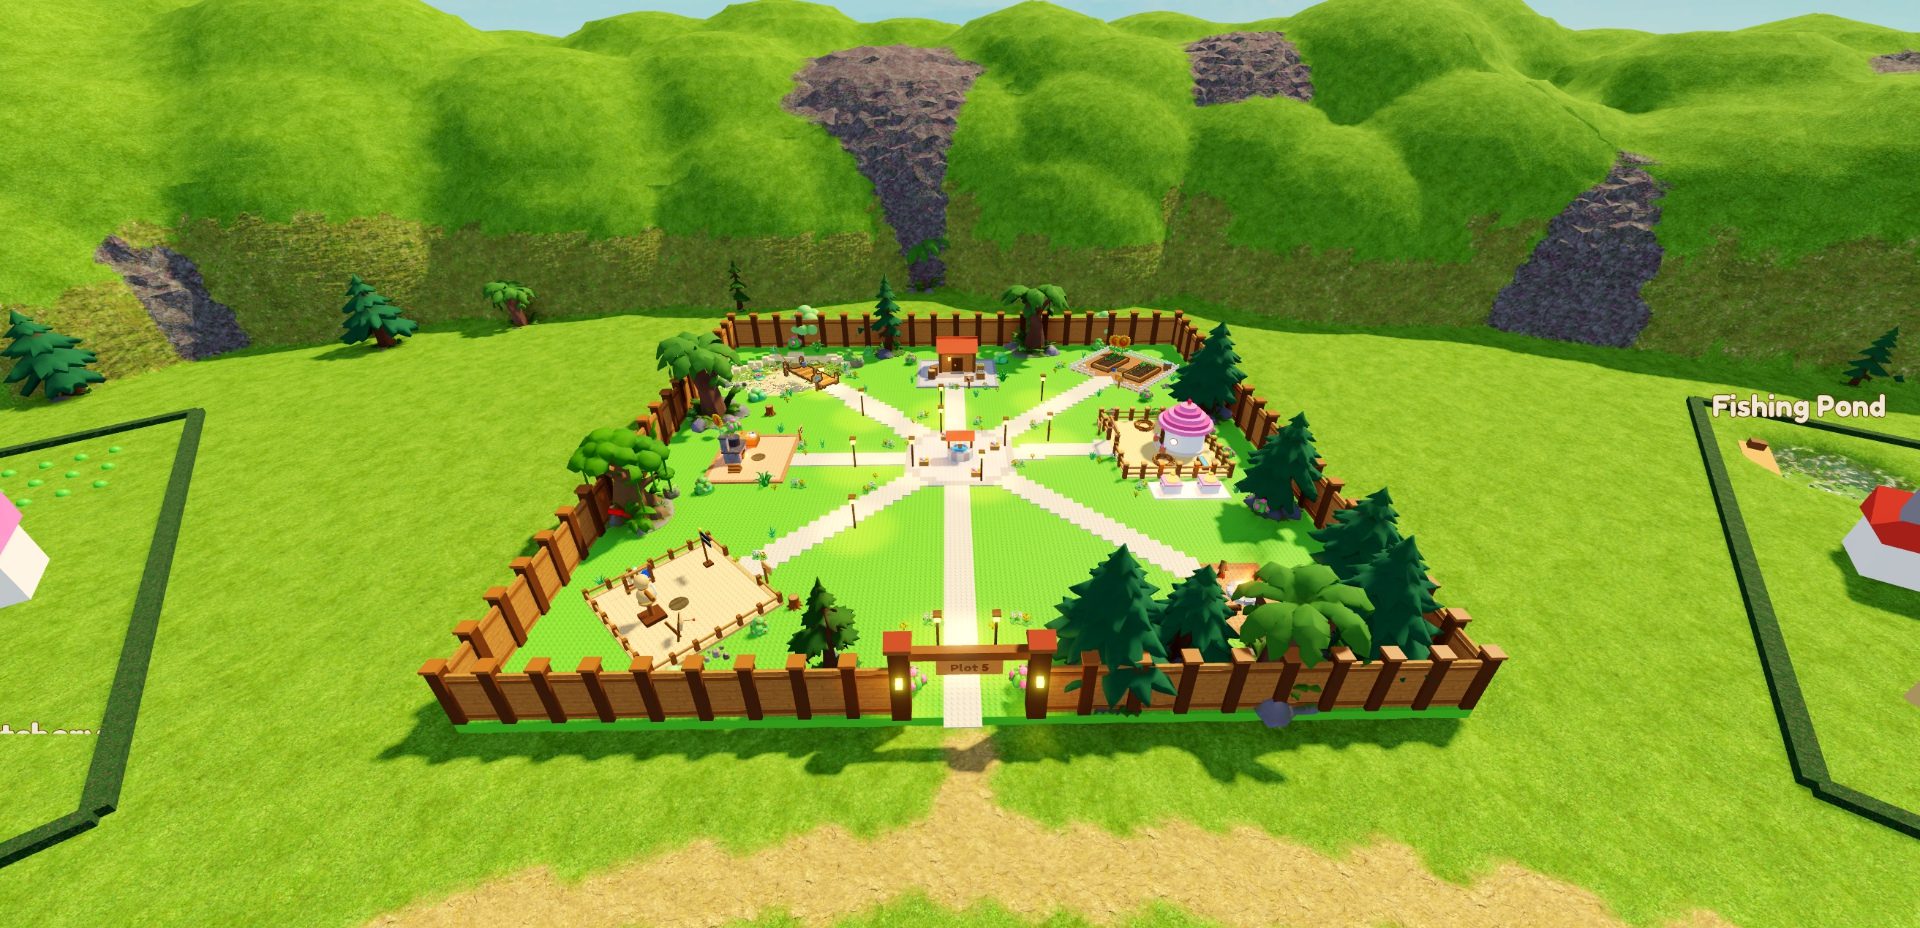
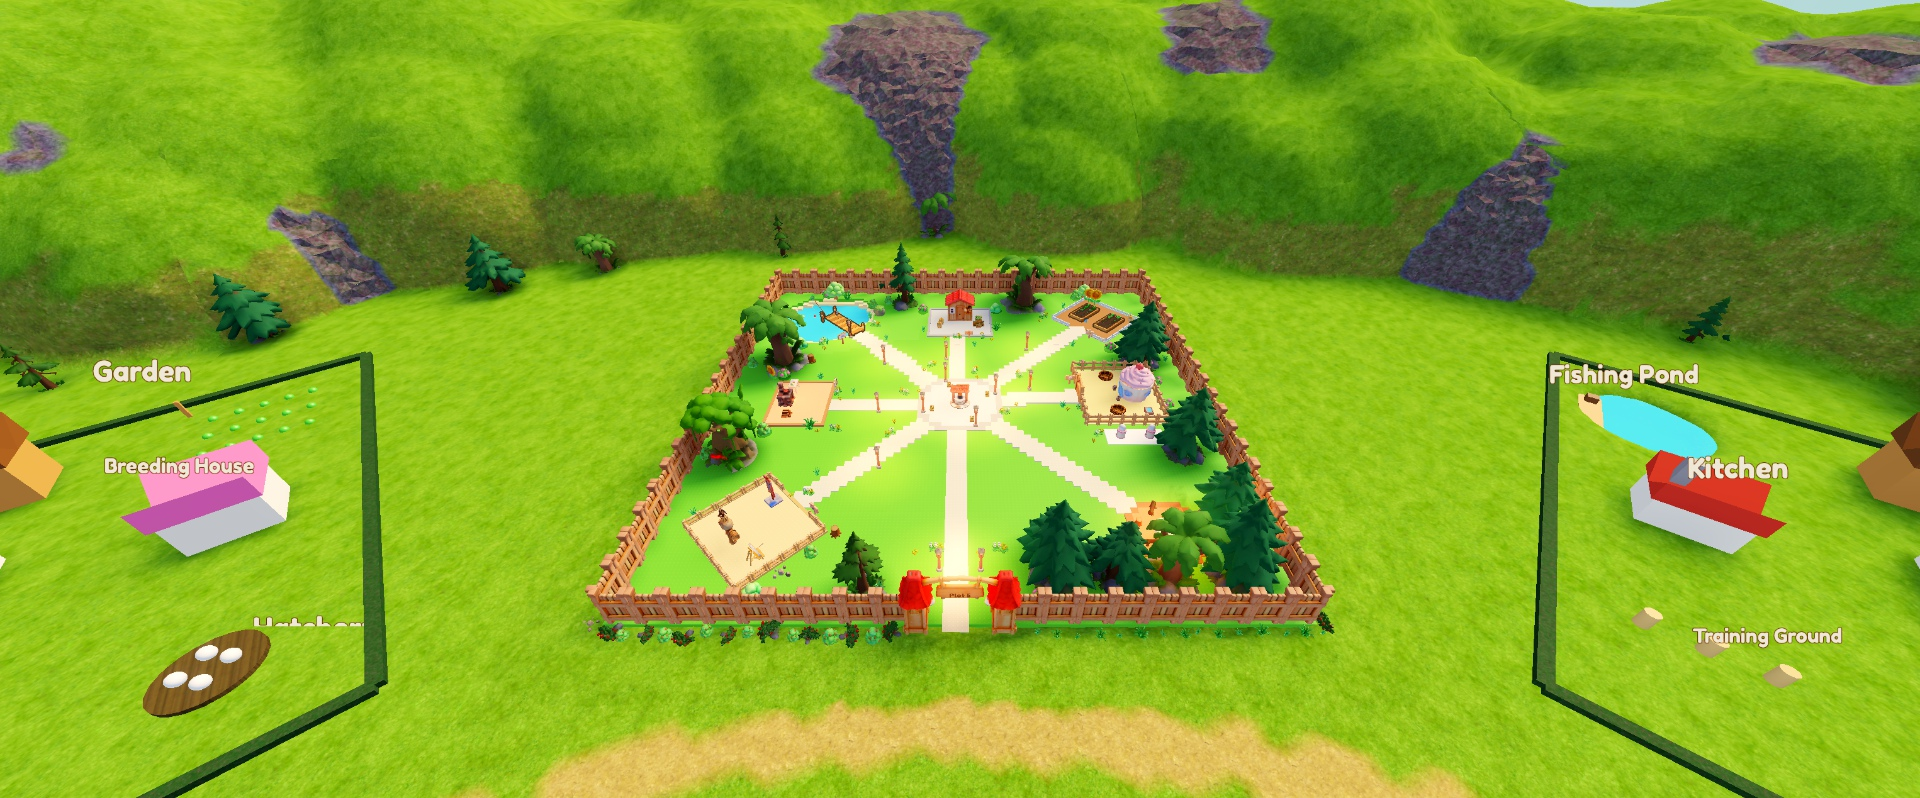
Low-poly fences, gates and signs; plot level with its ground
Fence runs become stretched low-poly bay sections; the village gate, pen gate
and six painted signposts come from the prop kit. tidy_plot keeps every
model inside the plot fence and skirts its outside foot with bushes and
rocks; stud_floor raises a grass ring so the plot meets the ground around it.

diff --git a/docs/STATUS.md b/docs/STATUS.md
@@ -138,6 +138,19 @@ warm window, and a real slime model; the roof is a little lilac.
   light. generate_mesh hands meshes back turned by a random angle: each kit mesh is set square when
   it goes into the kit. Floors, paths, fences and the area signs stay in the stud look. Pictures
   `docs/areas/props-*.jpg`, `prop-kit.jpg`.
+- Fences, gates and signs low poly too (owner): PalisadeFence (the plot's tall fence),
+  PicketFence (garden), RanchFence (breeding pen, training ground), VillageGate (keeps the plot's name
+  board as a SurfaceGui on the model's board), PenGate (heart arch), and six signposts with their
+  icon painted on (SignFishing, SignGarden, SignKitchen, SignPantry, SignBreeding, SignTraining).
+  `tools/map/replace_fences.luau` cuts each fence run into bays and stretches one section mesh per
+  bay (a MeshPart sizes freely); gates and signs go through `replace_props.luau`.
+- Owner fixes: `tools/map/tidy_plot.luau` (last step) moves every tree, bush and prop that reached
+  past the plot fence back inside, smaller if needed, and lays a skirt of small bushes, rocks, ferns
+  and tufts along the outside foot of the fence (gate kept clear). `stud_floor.luau` now cuts only
+  the plot itself and raises a 16-stud ring of grass round it to the floor's height (measured 1.4 to
+  2.6 against the floor's 2), so the plot sits level with the ground round it.
+- Build order now: ... build_village, replace_props, replace_fences, stud_floor, pond_water_l1,
+  tidy_plot. Pictures `docs/areas/fence-*.jpg`, `village-top.jpg`.
 - `tools/map/sync_client.luau` copies the client scripts into the work place for play tests.
 - `tools/map/sync_shared.luau` copies the repo's Config and Layout into the work place (it swaps in
   fresh ModuleScripts, since Studio caches what require returned).
